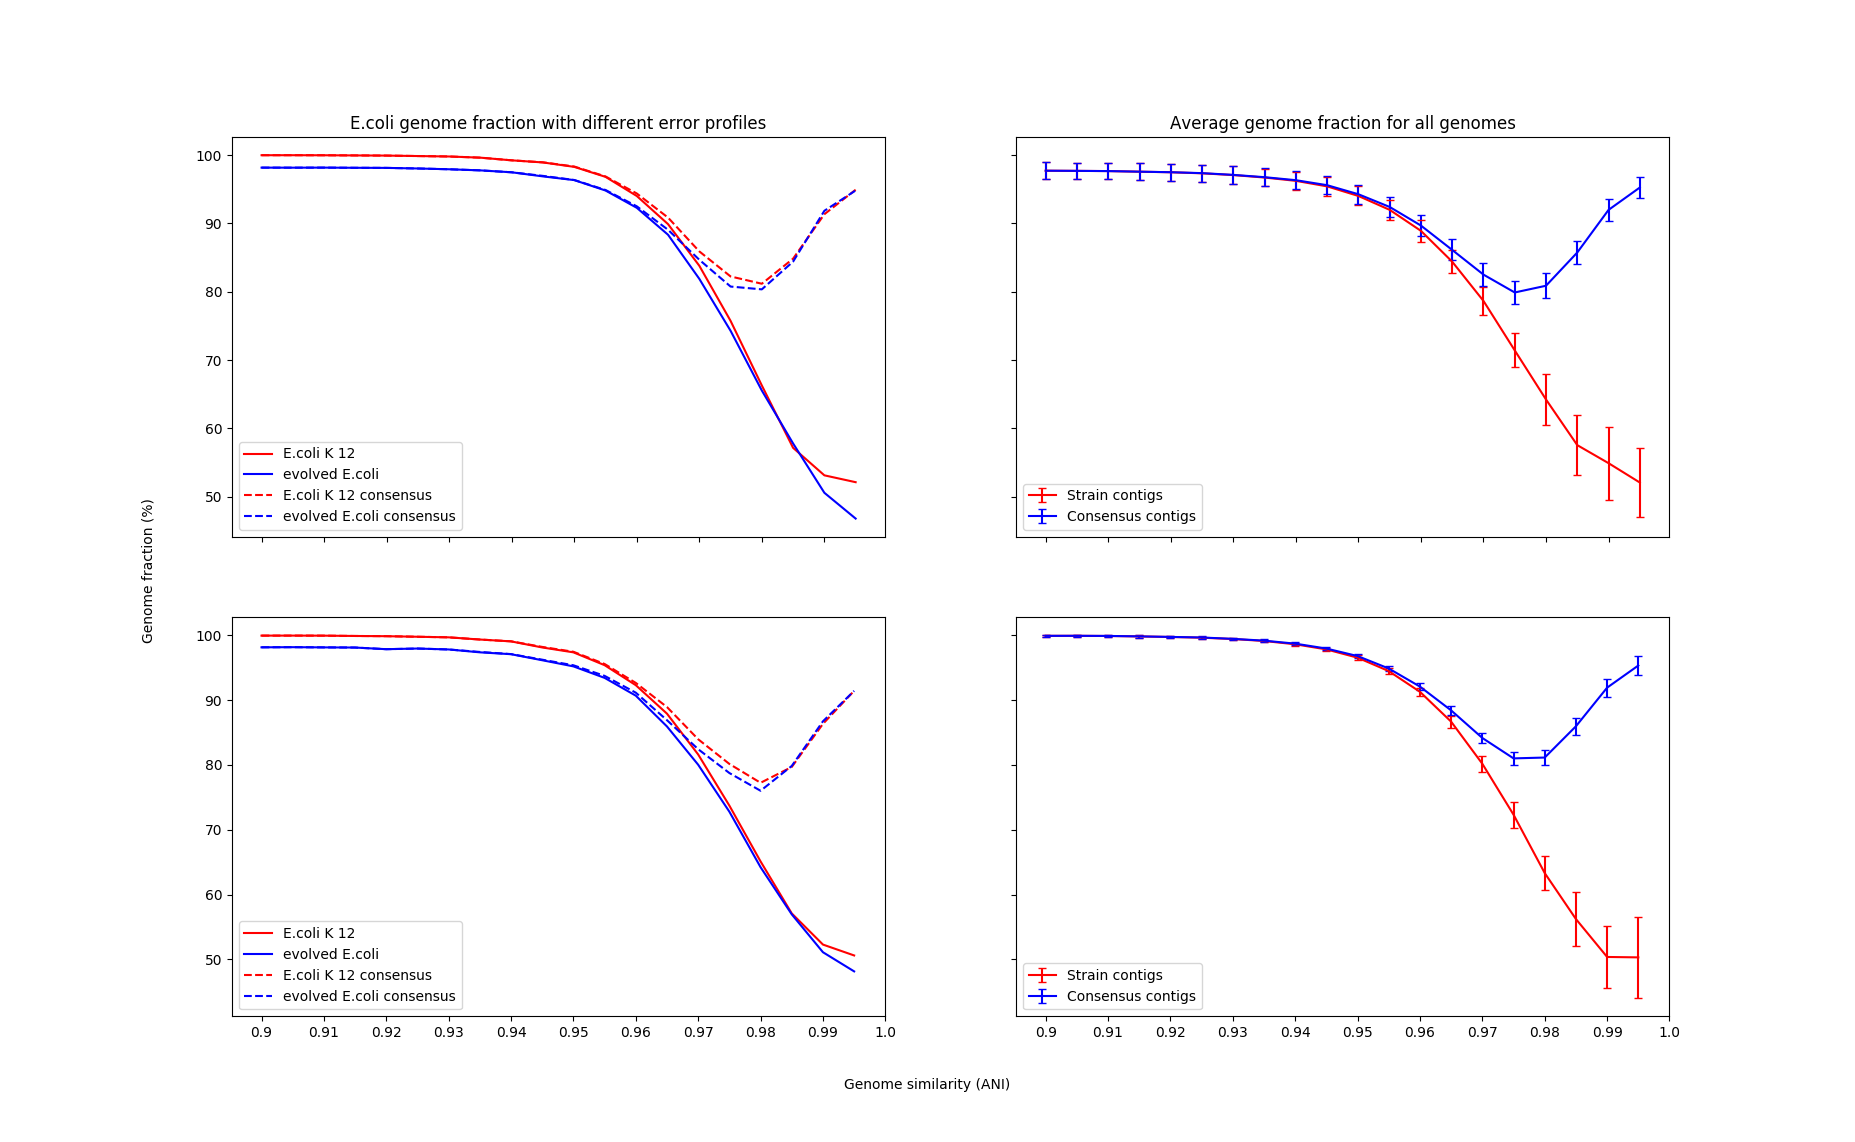
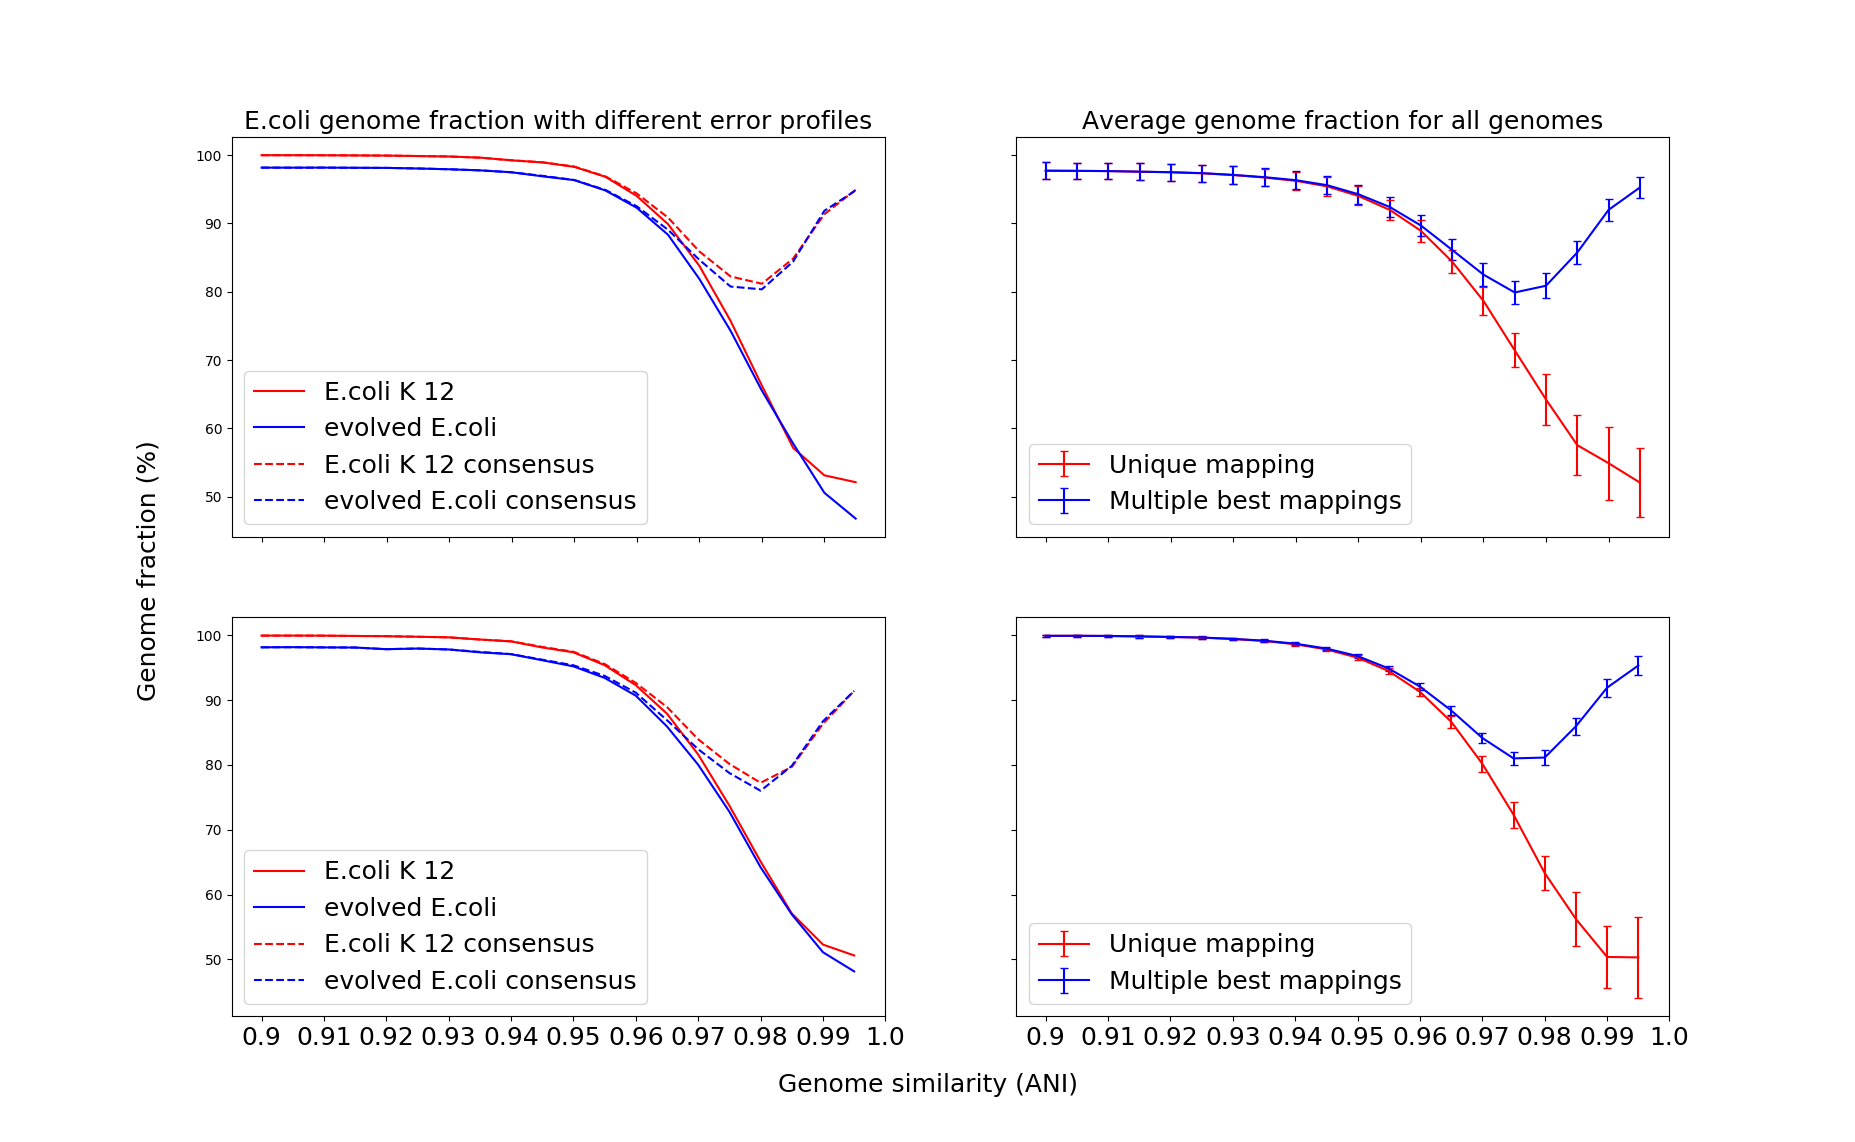
Increase panel fig legends and axis size

diff --git a/Results/figures/similarity/create_panelfig.py b/Results/figures/similarity/create_panelfig.py
@@ -122,32 +122,32 @@ ax1.plot(range(len(res_mega_strain_wgsim)),[y for (z,y) in res_mega_strain_wgsim
 ax1.plot(range(len(res_mega_strain_wgsim)),[z for (z,y) in res_mega_strain_wgsim],label="evolved E.coli", color='blue')
 ax1.plot(range(len(res_mega_con_wgsim)),[y for (z,y) in res_mega_con_wgsim],label="E.coli K 12 consensus",ls='--', color='red')
 ax1.plot(range(len(res_mega_con_wgsim)),[z for (z,y) in res_mega_con_wgsim],label="evolved E.coli consensus",ls='--', color='blue')
-ax1.legend(loc='lower left')
-ax1.set_title("E.coli genome fraction with different error profiles") 
+ax1.legend(loc='lower left',prop={'size': 18})
+ax1.set_title("E.coli genome fraction with different error profiles", size=18) 
 ax3.plot(range(len(res_mega_strain_art)),[y for (z,y) in res_mega_strain_art],label="E.coli K 12", color='red')
 ax3.plot(range(len(res_mega_strain_art)),[z for (z,y) in res_mega_strain_art],label="evolved E.coli", color='blue')
 ax3.plot(range(len(res_mega_con_art)),[y for (z,y) in res_mega_con_art],label="E.coli K 12 consensus",ls='--', color='red')
 ax3.plot(range(len(res_mega_con_art)),[z for (z,y) in res_mega_con_art],label="evolved E.coli consensus",ls='--', color='blue')
-ax3.legend(loc='lower left')
+ax3.legend(loc='lower left',prop={'size': 18})
 
 # all genomes plot
 mean_str_ev, sd_str_ev, mean_str_og, sd_str_og, mean_con_ev, sd_con_ev, mean_con_og, sd_con_og = create_all_genomes_data("../../itol_evaluation")
-ax2.errorbar(range(len(mean_str_og)),mean_str_og,yerr=[float(x)/2 for x in sd_str_og],capsize=3,label="Strain contigs",color='red')
-ax2.errorbar(range(len(mean_con_og)),mean_con_og,yerr=[float(x)/2 for x in sd_con_og],capsize=3,label="Consensus contigs",color='blue')
-ax2.legend(loc='lower left')
-ax2.set_title("Average genome fraction for all genomes")
-ax4.errorbar(range(len(mean_str_ev)),mean_str_ev,yerr=[float(x)/2 for x in sd_str_ev],capsize=3,label="Strain contigs",color='red')
-ax4.errorbar(range(len(mean_con_ev)),mean_con_ev,yerr=[float(x)/2 for x in sd_con_ev],capsize=3,label="Consensus contigs",color='blue')
-ax4.legend(loc='lower left')
+ax2.errorbar(range(len(mean_str_og)),mean_str_og,yerr=[float(x)/2 for x in sd_str_og],capsize=3,label="Unique mapping",color='red')
+ax2.errorbar(range(len(mean_con_og)),mean_con_og,yerr=[float(x)/2 for x in sd_con_og],capsize=3,label="Multiple best mappings",color='blue')
+ax2.legend(loc='lower left',prop={'size': 18})
+ax2.set_title("Average genome fraction for all genomes", size=18)
+ax4.errorbar(range(len(mean_str_ev)),mean_str_ev,yerr=[float(x)/2 for x in sd_str_ev],capsize=3,label="Unique mapping",color='red')
+ax4.errorbar(range(len(mean_con_ev)),mean_con_ev,yerr=[float(x)/2 for x in sd_con_ev],capsize=3,label="Multiple best mappings",color='blue')
+ax4.legend(loc='lower left',prop={'size': 18})
 
 # general stuff
 xlabels = sim[::2]
 xlabels.append(1.0)
 ylabels = range(40,100,20)
-ax3.set_xticklabels(xlabels)
-ax4.set_xticklabels(xlabels)
+ax3.set_xticklabels(xlabels, size=18)
+ax4.set_xticklabels(xlabels, size=18)
 ax3.set_xticks(range(0,22,2))
 ax4.set_xticks(range(0,22,2))
-f.text(0.08,0.5,"Genome fraction (%)",ha = 'center', va = 'center', rotation='vertical')
-f.text(0.5,0.05,"Genome similarity (ANI)",ha = 'center', va = 'center')
+f.text(0.08,0.5,"Genome fraction (%)",ha = 'center', va = 'center', rotation='vertical', size=18)
+f.text(0.5,0.05,"Genome similarity (ANI)",ha = 'center', va = 'center', size=18)
 plt.show()
